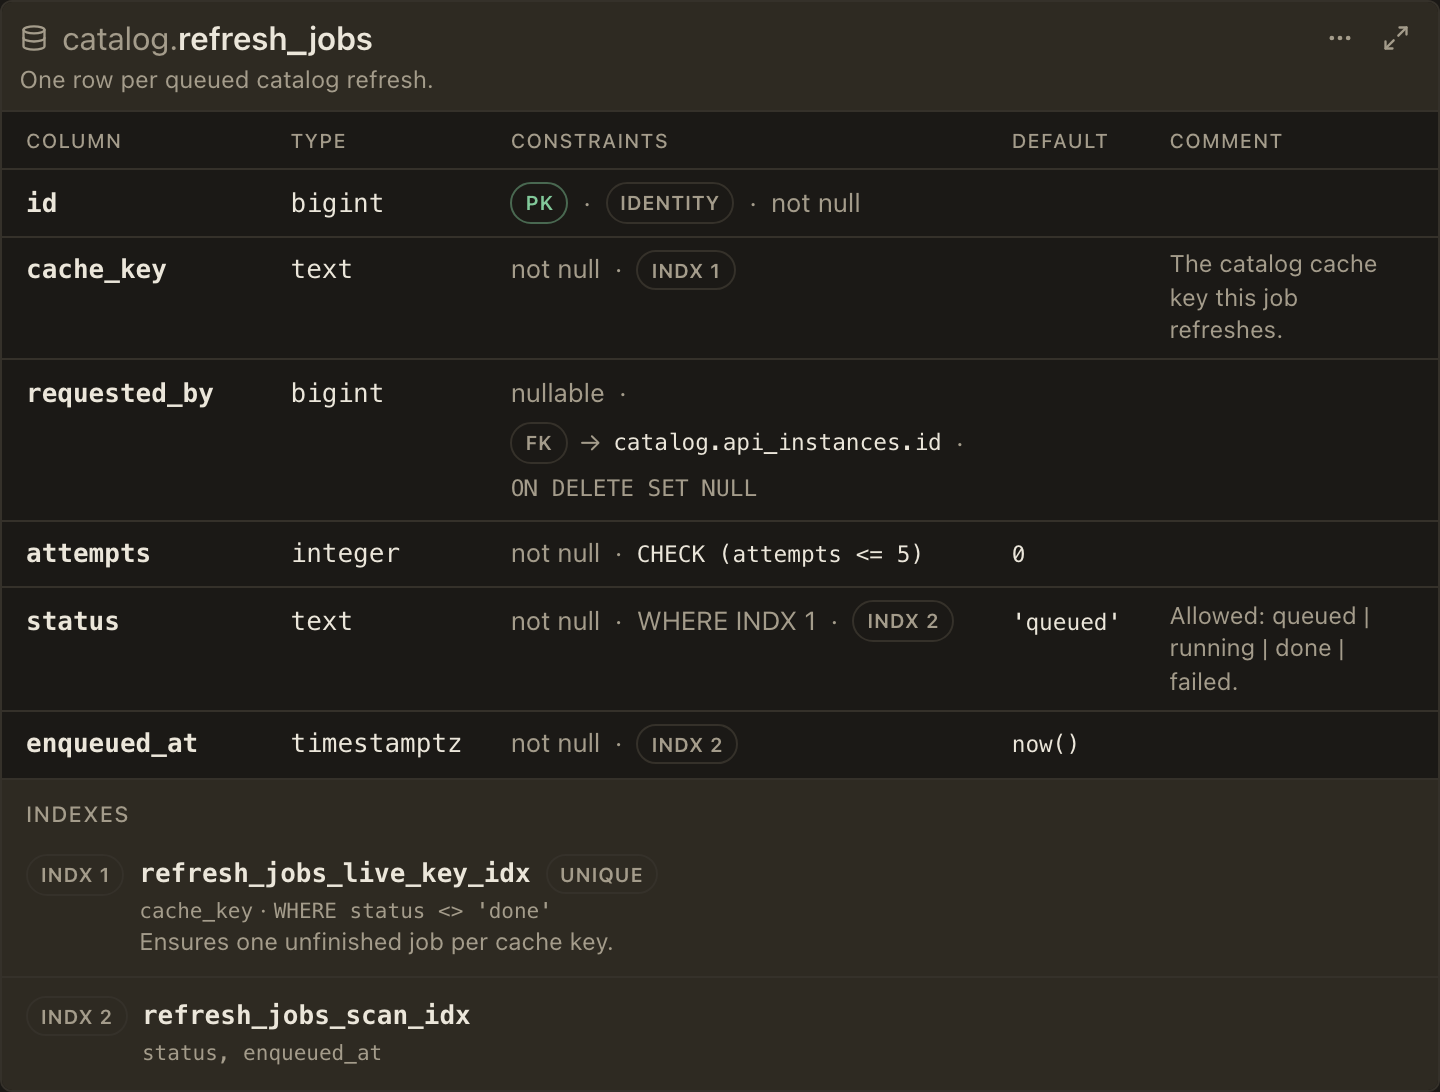
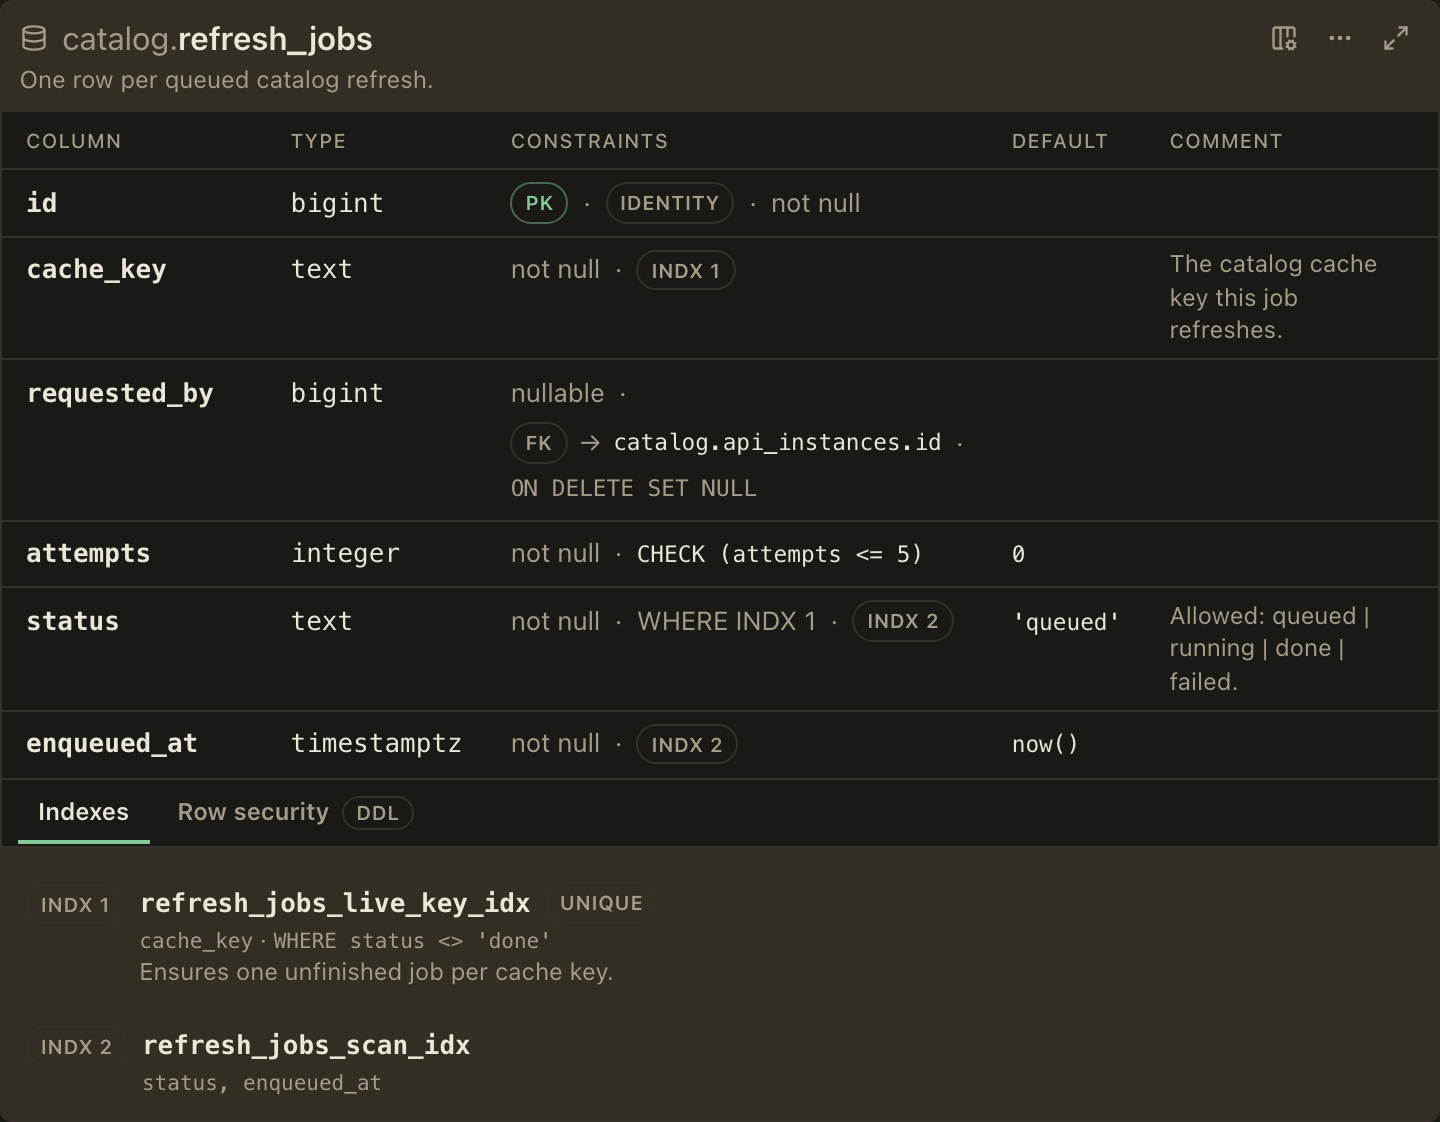
docs: refresh the DatabaseTableSchema screenshots and capability prose
The screenshot fixture gains a Row security Ddl child so the docs image
shows the tab bar, the DDL badge, and the columns-menu control, and the
features and component pages name the INDX jumps and the persisted
reorder-and-hide column layout.

diff --git a/docs/src/content/docs/intro/features.md b/docs/src/content/docs/intro/features.md
@@ -32,7 +32,7 @@ For what comes next, see the [roadmap](/intro/roadmap/).
 - `Callout` components for notes, tips, warnings, and dangers.
 - `CodeDiff` components with optional line numbers and change counts, unified and side-by-side views, scoped line annotations, copy actions, and full-screen viewing.
 - `CodeSnippet` components for excerpts with optional file identity, file-absolute line numbers, scoped annotations, and copy actions.
-- `DatabaseTableSchema` components for one table's schema: a psql-style columns grid with key badges, foreign keys, indexes, checks, titled verbatim-DDL bands behind tabs, copy actions, and full-screen viewing.
+- `DatabaseTableSchema` components for one table's schema: a psql-style columns grid with key badges, foreign keys, indexes, checks, titled verbatim-DDL bands behind tabs, jump-linked `INDX` references, a persisted reorder-and-hide column layout, copy actions, and full-screen viewing.
 - `FileTree` components for foldable plain hierarchies with optional per-entry notes.
 - `FileTreeDiff` components with entry-level change status, summaries, persisted combined or side-by-side views, a Planned-pane final-state switch, fold controls, note hints, and full-screen viewing.
 - `HttpEndpoint` components for HTTP contracts with location-grouped parameters, request examples, status-coded responses, and tabbed section navigation.
